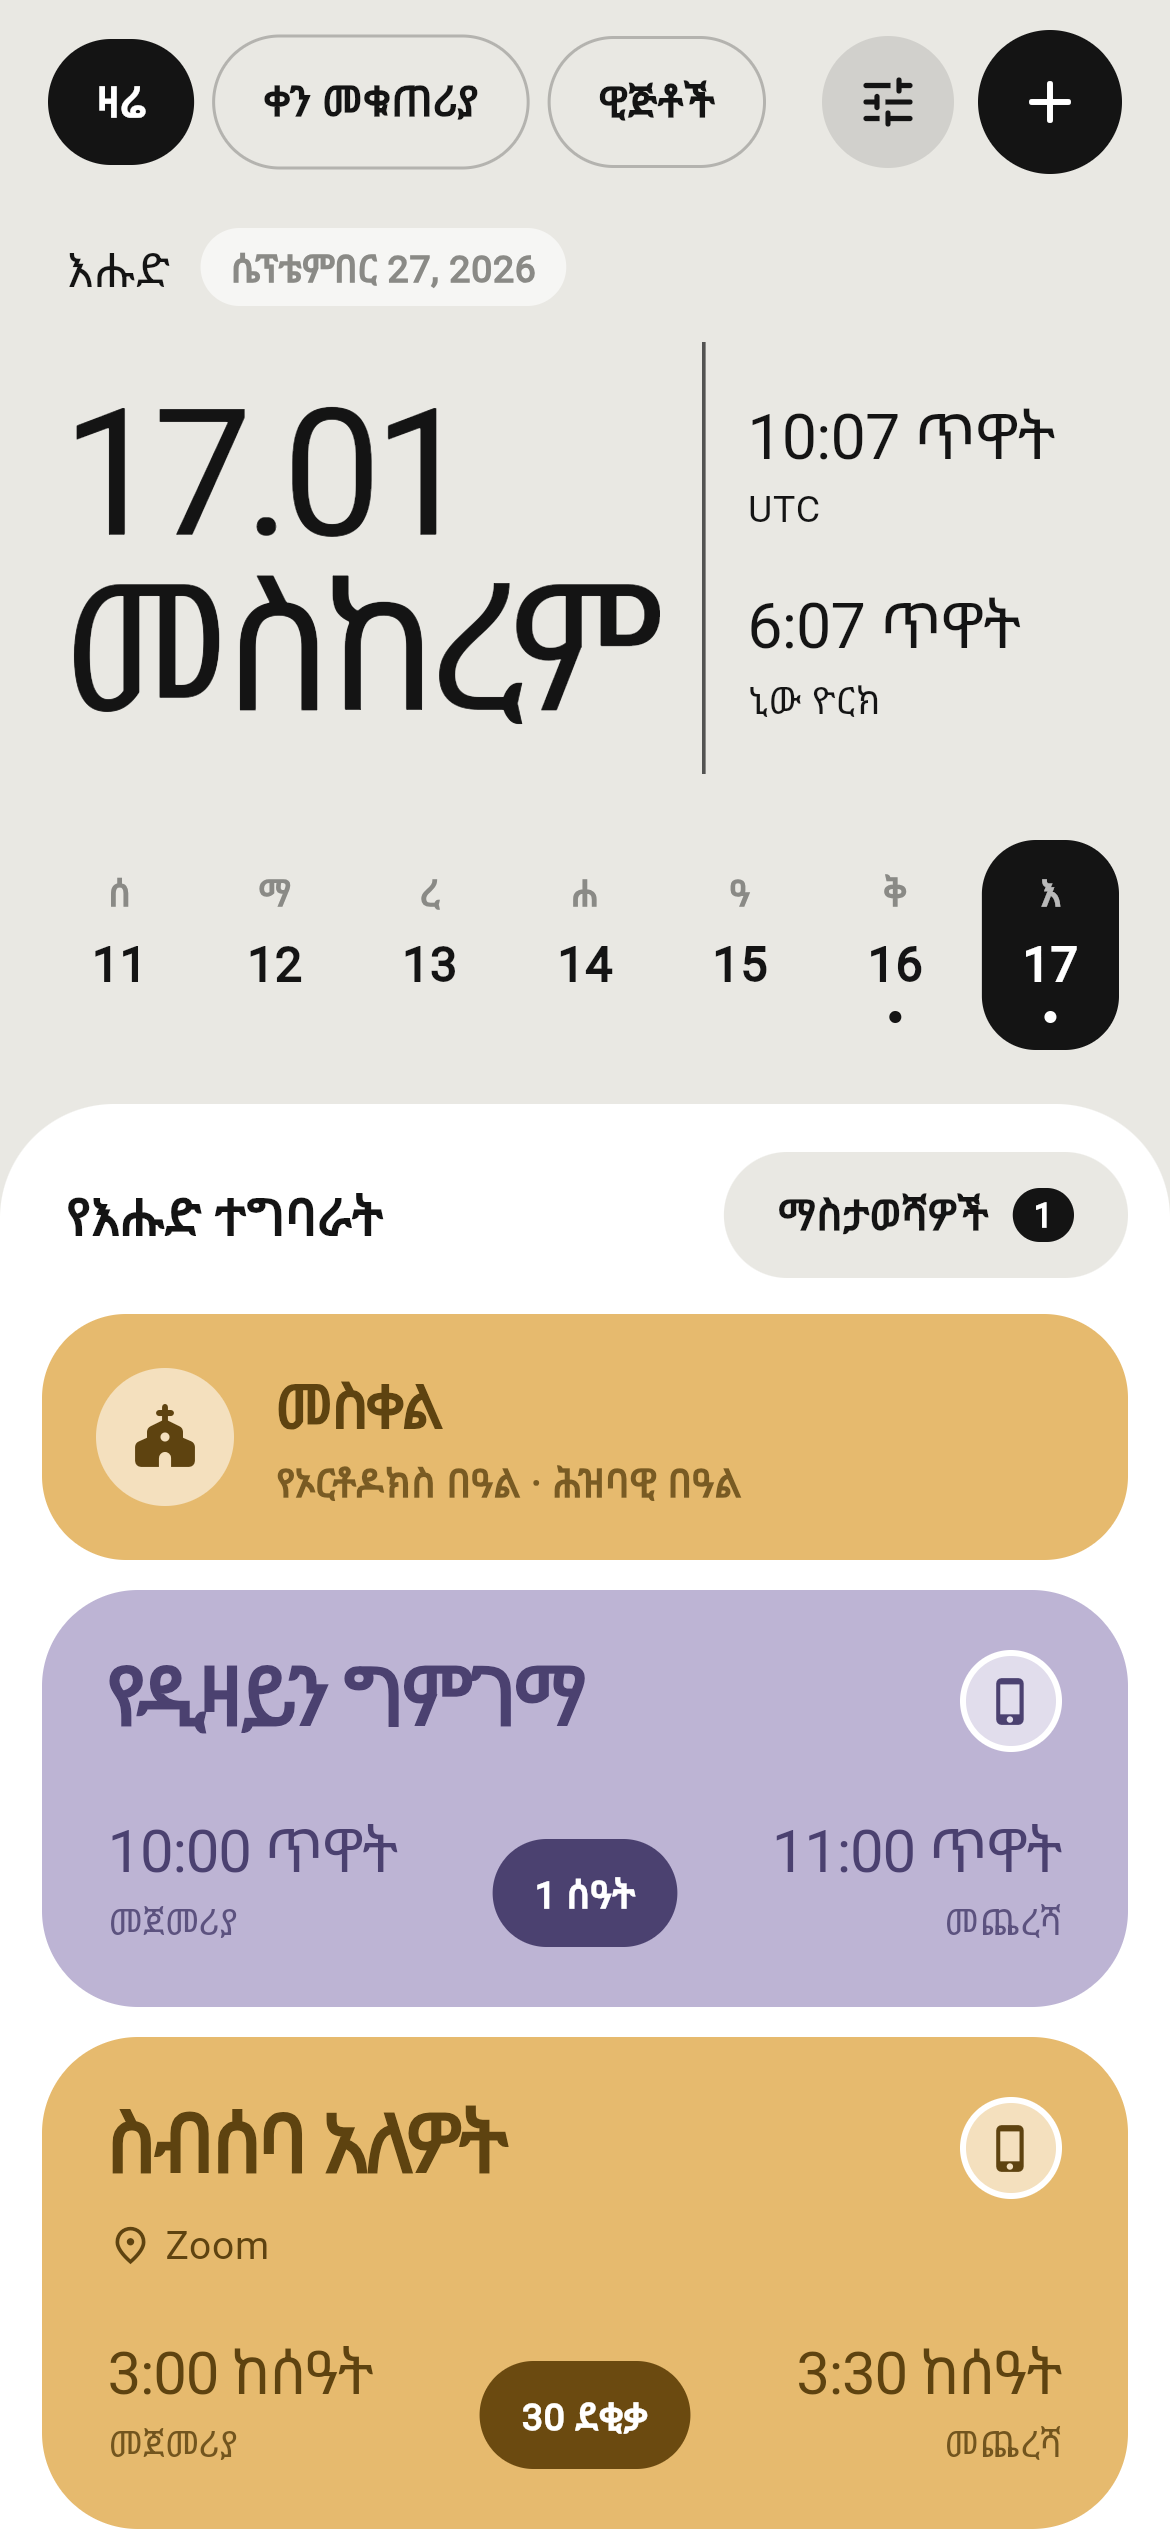
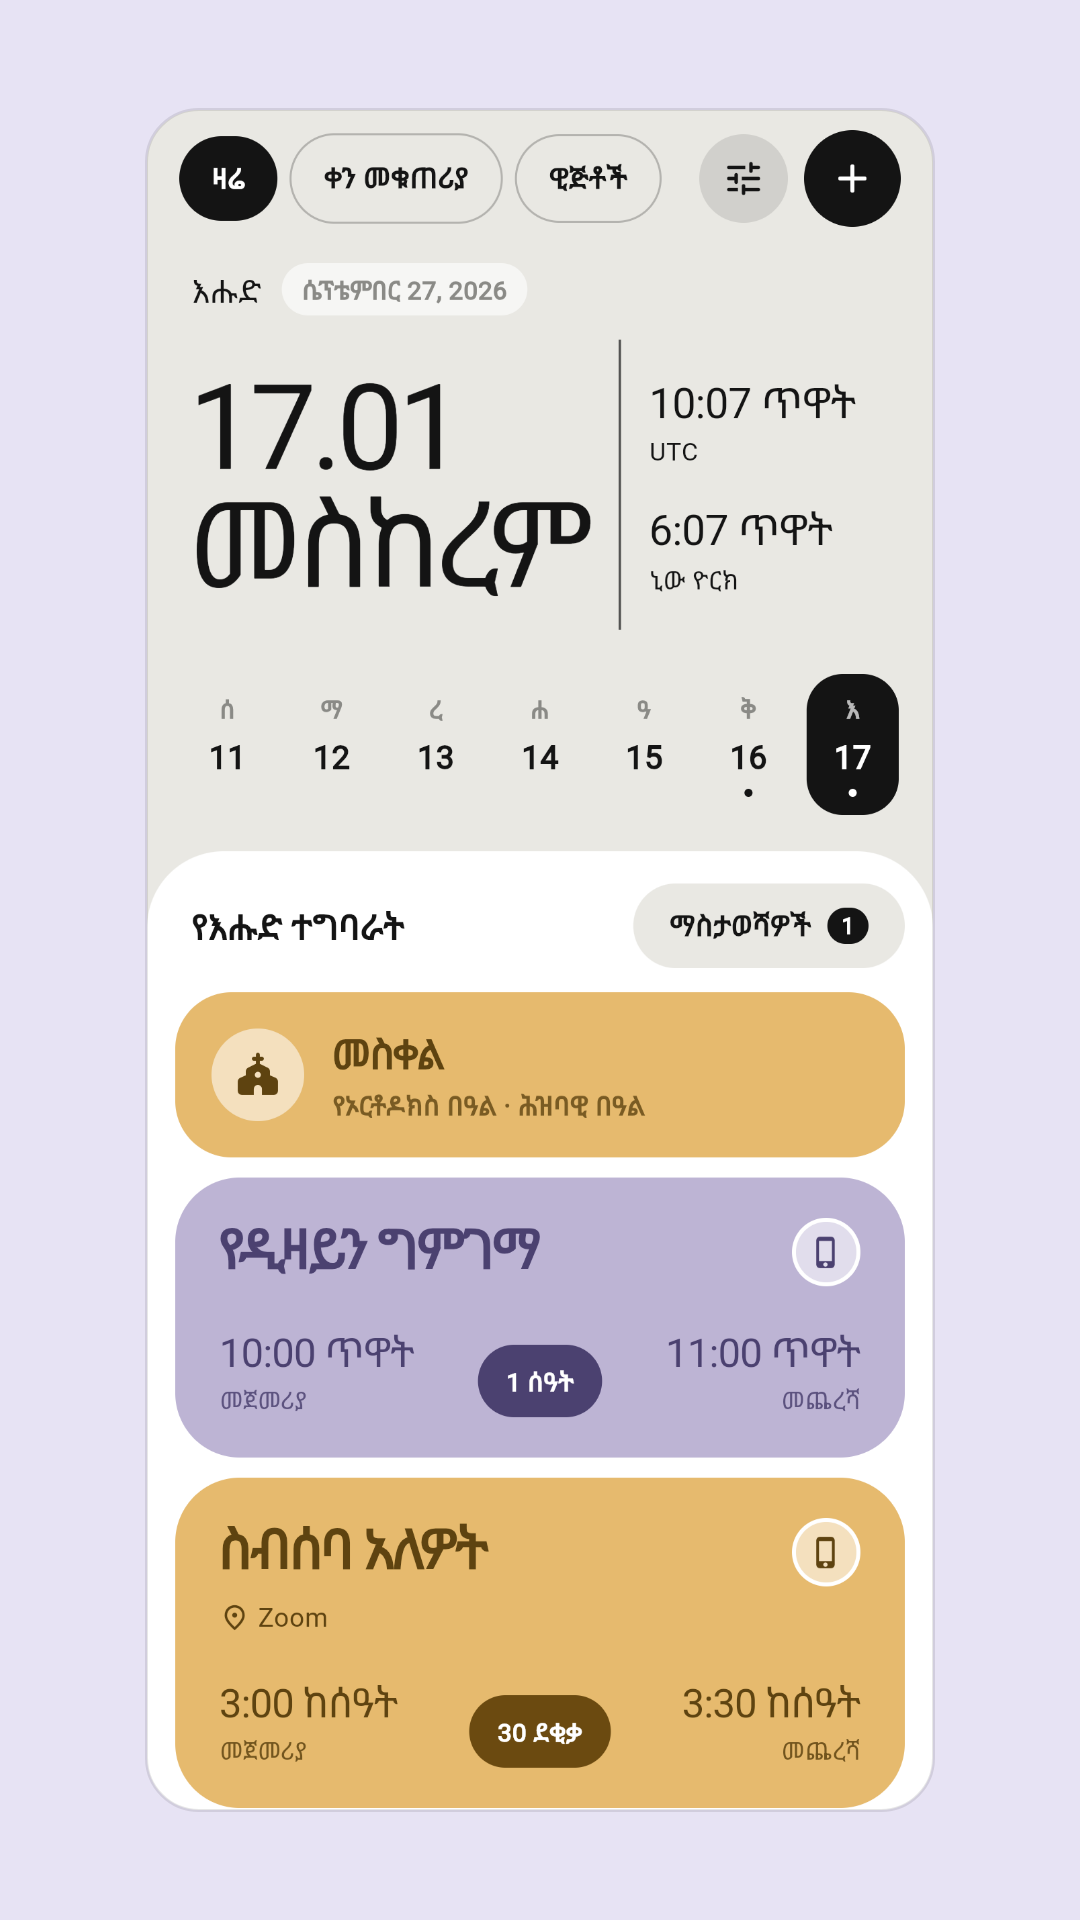
Prepare Glass Calendar for Google Play
- Sign release builds with an upload key from android/key.properties or
  ANDROID_KEYSTORE_* environment variables, falling back to the debug key
  for local builds.
- Add a release workflow that tests, builds signed APKs and the App Bundle,
  checks nothing is debug-signed and publishes a GitHub release.
- Re-frame the store screenshots to 1080x1920 so they meet Play's 2:1 limit.
- Add RELEASING.md and docs/play-store.md with the Play Console answers.

Claude-Session: https://claude.ai/code/session_01Kci3sPFnDhUtDpErSRYq6E

diff --git a/docs/play-store.md b/docs/play-store.md
@@ -1,0 +1,66 @@
+# Glass Calendar on Google Play
+
+Everything the Play Console asks for, in the order it asks. Signing and
+building the upload are in [RELEASING.md](../RELEASING.md).
+
+## Store listing
+
+The text, icon (512 × 512), feature graphic (1024 × 500) and screenshots are
+in `fastlane/metadata/android/en-US/` (English) and `am/` (Amharic). Copy them into **Grow → Store presence → Main store
+listing**, or upload them with `fastlane supply` if you use fastlane.
+
+| Field | Answer |
+| --- | --- |
+| App or game | App |
+| Category | Productivity |
+| Tags | Calendar, Productivity |
+| Free or paid | Free |
+| Privacy policy | https://kidus.pro.et/privacy/glass-calendar/ |
+
+The privacy policy is a page on the portfolio site (`frontend/` in the
+Kstore repo). The URL above works once the portfolio is deployed at
+kidus.pro.et; if it's hosted elsewhere, use that address with
+`/privacy/glass-calendar/`.
+
+## Data safety
+
+**Does your app collect or share any of the required user data types?** No.
+
+Glass Calendar has no internet permission. It reads and writes the phone's
+own calendars (Android's calendar provider) only to show and edit events on
+the device. Google counts data as *collected* only when it leaves the device,
+so nothing here is collected or shared. Syncing those calendars with Google,
+Outlook and so on is done by Android and those accounts, not by the app.
+
+## Permissions
+
+| Permission | Why | Console |
+| --- | --- | --- |
+| `READ_CALENDAR`, `WRITE_CALENDAR` | Show and edit the phone's events | Not restricted; no form |
+| `POST_NOTIFICATIONS` | Reminders | Not restricted |
+| `SCHEDULE_EXACT_ALARM` | Reminders on the minute; the person allows it under "Alarms & reminders" | If asked about exact alarms: it's a calendar app and reminders are core functionality |
+| `RECEIVE_BOOT_COMPLETED` | Reschedule reminders after a restart | Not restricted |
+
+## Content rating (IARC questionnaire)
+
+Category **Utility, Productivity, Communication or other**. Answer **No** to every question (no violence, sexual content, language, controlled substances, gambling, user interaction, sharing location or purchases). Expected rating: **Everyone / PEGI 3**.
+
+## Target audience
+
+**18 and over** (or 13 and over). It's a general calendar, not made for children; picking ages under 13 brings in the Families policy for no benefit.
+
+## Store settings
+
+| Field | Answer |
+| --- | --- |
+| Contact email | kidyoh789@gmail.com |
+| Website | https://kidus.pro.et |
+| Ads | No, the app has no ads |
+| App access | All functionality is available without special access (no login) |
+| Government app | No |
+| Financial features | None |
+| Health | None |
+
+## Notes
+
+- The Amharic listing (`am`) uses the same screenshots without captions.

diff --git a/RELEASING.md b/RELEASING.md
@@ -1,0 +1,69 @@
+# Releasing Glass Calendar
+
+## One-time setup
+
+### 1. Make the upload key
+
+Each app gets its own upload key. Make it once, on your own computer:
+
+```sh
+keytool -genkeypair -v -keystore glass-calendar-upload.jks -storetype JKS \
+  -alias upload -keyalg RSA -keysize 2048 -validity 10000
+```
+
+Keep the `.jks` file and its password backed up somewhere safe (a password
+manager works), and never commit it. With Play App Signing, Google holds the key
+that signs what people install, so a lost upload key can be reset from the Play
+Console. Direct-download APKs from GitHub, though, are signed with this key.
+
+### 2. Add the repository secrets
+
+GitHub → Settings → Secrets and variables → Actions → New repository secret:
+
+| Secret | Value |
+| --- | --- |
+| `ANDROID_KEYSTORE_BASE64` | `base64 -w0 glass-calendar-upload.jks` (macOS: `base64 -i glass-calendar-upload.jks`) |
+| `ANDROID_KEYSTORE_PASSWORD` | the keystore password |
+| `ANDROID_KEY_ALIAS` | `upload` |
+| `ANDROID_KEY_PASSWORD` | the key password (the same as the keystore password unless you chose another) |
+
+The release workflow stops with an error if the key is missing, and checks
+that nothing it publishes is signed with the debug key.
+
+### Signing local builds
+
+For a signed release build on your own machine, create `android/key.properties`
+(git-ignored):
+
+```
+storeFile=/absolute/path/to/glass-calendar-upload.jks
+storePassword=...
+keyAlias=upload
+keyPassword=...
+```
+
+Without it, `flutter build` falls back to the debug key, which is fine for
+testing but can't be uploaded to Google Play.
+
+## Cutting a release
+
+1. Bump `version:` in `pubspec.yaml`, e.g. from `1.6.1+12` to `1.6.2+13`. The
+   number after `+` is the Play version code and must go up with every upload.
+   The release notes are generated from the merged pull requests.
+2. Commit, then tag and push: `git tag v1.6.2 && git push origin v1.6.2`,
+   or start the **Release** workflow by hand from the Actions tab.
+3. The workflow analyzes, tests, builds the signed APKs and `GlassCalendar-<version>-play.aab`,
+   checks the signatures and publishes a GitHub release.
+
+Upload the `.aab` to Google Play. Share the arm64 APK for direct installs.
+
+## Identifiers
+
+The application ID is `com.kidyoh.glass_calendar`. It can't change after the first
+upload to Google Play.
+
+## Store listing
+
+The Play Store text, graphics and screenshots live in
+`fastlane/metadata/android/`, and the answers for the Play Console forms are in
+[docs/play-store.md](docs/play-store.md).
